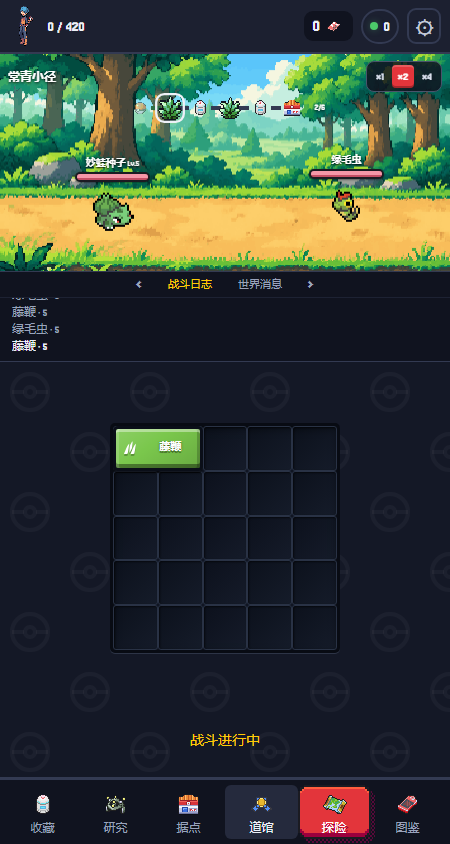
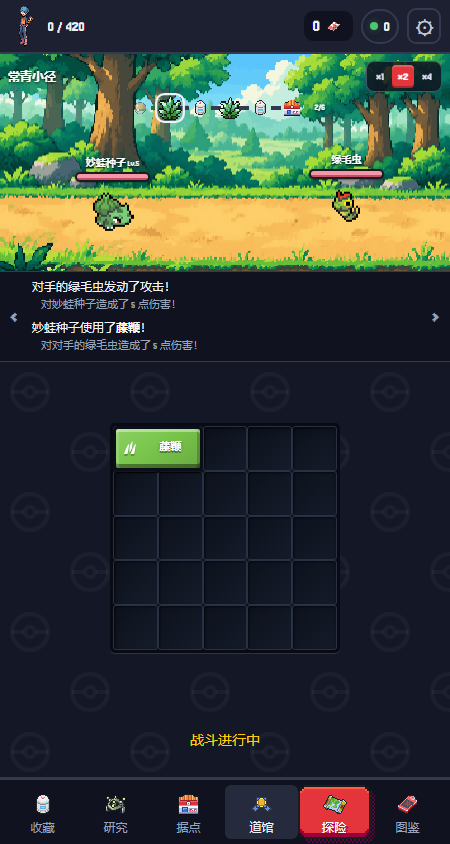
fix(poke): remove feed labels and format battle actions

Changed region(s): [[0.0, 0.3081, 0.4667, 0.4313], [0.5289, 0.3081, 0.6222, 0.3389]]

diff --git a/outputs/laozu-web/poke/app.js b/outputs/laozu-web/poke/app.js
@@ -26,7 +26,17 @@
   function header(){const owned=new Set(M.s.collection.map(m=>m.speciesId)).size;return `<header class="topbar compact-topbar"><button data-action="home" class="trainer" aria-label="返回据点"><img class="trainer-portrait" src="poke/trainers/still/acetrainer.png" alt=""></button><span class="collection-count" aria-label="已收藏物种 ${owned}，共 ${POKE_CATALOG.POKEDEX.length}">${owned} / ${POKE_CATALOG.POKEDEX.length}</span><div class="wallet" aria-label="抽取点 ${M.s.points}"><b>${M.s.points}</b>${icon('point')}</div><span class="defeat-count" aria-label="击败 ${M.s.defeats}"><i></i>${M.s.defeats}</span><button class="settings-button" data-action="settings" aria-label="设置">⚙</button></header>`;}
   function speedControl(){return `<div class="speed-control" aria-label="战斗倍率">${[1,2,4].map(n=>`<button data-action="speed:${n}" aria-pressed="${M.s.preferences.speed===n}" class="${M.s.preferences.speed===n?'chosen':''}">×${n}</button>`).join('')}</div>`;}
   function settings(){return settingsOpen?`<div class="settings-shade"><section class="settings-panel" role="dialog" aria-modal="true" aria-labelledby="settings-title"><div class="settings-title"><h2 id="settings-title">设置</h2><button data-action="close-settings" aria-label="关闭设置">×</button></div><div class="settings-row"><span>战斗倍率</span>${speedControl()}</div><button class="motion-toggle" data-action="motion" aria-pressed="${!!M.s.preferences.reducedMotion}">减少动态效果 <span>${M.s.preferences.reducedMotion?'开':'关'}</span></button></section></div>`:'';}
-  function messageFeed(r){const b=r.battle,lines=(b?.events||[]).slice(-8).map(e=>e.actor==='player'?`${M.moveName(e.move)} · ${e.amount}`:e.actor==='heal'?`恢复 +${e.amount}`:`${text(b.speciesId)} · ${e.amount}`);return `<section class="message-feed" aria-label="消息区"><div class="feed-tabs"><button data-action="feed-toggle" aria-label="上一消息频道">‹</button><button data-action="feed:battle" aria-pressed="${feed==='battle'}">战斗日志</button><button data-action="feed:world" aria-pressed="${feed==='world'}">世界消息</button><button data-action="feed-toggle" aria-label="下一消息频道">›</button></div><div class="feed-content" data-feed="${feed}">${feed==='world'?'<span class="feed-empty">暂无消息</span>':lines.length?lines.map(l=>`<p>${esc(l)}</p>`).join(''):'<span class="feed-empty">—</span>'}</div></section>`;}
+  function messageFeed(r){
+    const b=r.battle,own=esc(text(r.mon.speciesId)),foe=b?`对手的${esc(text(b.speciesId))}`:'';
+    const lines=(b?.events||[]).slice(-8).map(e=>{
+      if(e.actor==='heal')return `<div class="battle-history"><p>${own}吃掉了<strong>橙橙果</strong>！</p><small>恢复了 ${e.amount} 点生命！</small></div>`;
+      const action=e.actor==='player'?`${own}使用了<strong>${esc(M.moveName(e.move))}</strong>！`:`${foe}发动了攻击！`;
+      return `<div class="battle-history"><p>${action}</p><small>对${e.actor==='player'?foe:own}造成了 ${e.amount} 点伤害！</small></div>`;
+    });
+    if(b?.hp<=0)lines.push(`<div class="battle-history"><p>${foe}倒下了！</p></div>`);
+    else if(b&&r.hp<=0)lines.push(`<div class="battle-history"><p>${own}倒下了！</p></div>`);
+    return `<section class="message-feed" aria-label="${feed==='battle'?'战斗记录':'世界消息'}"><button class="feed-arrow previous" data-action="feed-toggle" aria-label="上一消息频道">‹</button><div class="feed-content" data-feed="${feed}" tabindex="0">${feed==='battle'?lines.join(''):''}</div><button class="feed-arrow next" data-action="feed-toggle" aria-label="下一消息频道">›</button></section>`;
+  }
   function nav(){return `<nav class="bottom-nav" aria-label="主要导航">${[['collection','收藏'],['research','研究'],['home','据点'],['gym','道馆'],['wander','探险'],['dex','图鉴']].map(([id,label])=>btn('nav:'+id,icon(id)+`<span>${label}</span>`,view===id?'active':'')).join('')}</nav>`;}
   const badge=type=>`<span class="type type-${type}">${TYPES[type]||type}</span>`;
   function home(){return `<main class="home-page"><div class="home-canvas scene"><canvas id="scene" aria-label="宝可梦训练家据点，沿道路连接研究所、收藏室和探险入口"></canvas></div><div class="home-heading"><small>PALLET OUTPOST</small><h1>新叶据点</h1><p>整理行囊，遇见下一位伙伴。</p></div><div class="building b-research">${btn('nav:research',icon('research')+'<b>研究所</b><small>抽取规则</small>')}</div><div class="building b-collection">${btn('nav:collection',icon('collection')+'<b>收藏室</b><small>'+M.s.collection.length+' 位伙伴</small>')}</div><div class="building b-gym">${btn('nav:gym',icon('gym')+'<b>训练馆</b><small>收藏整备</small>')}</div><div class="home-quest"><span class="quest-seal">${icon('wander')}</span><div><b>${M.s.run?'探险中 · '+text(M.s.run.mon.speciesId):M.s.firstFree?'第一份探险邀请':'常青小径 · 新的旅途'}</b><small>${M.s.run?'本次进度已保存，点击下方继续':'击败宝可梦获得抽取点，结识新的伙伴'}</small></div></div><div class="home-portal">${btn('nav:wander',`<span class="portal-art">${icon('wander')}</span><b>${M.s.run?'继续探险':'开始探险'}</b><small>${M.s.firstFree?'首次抽取免费':'每次抽取 '+M.drawCost()+' 点'}</small>`,'round-start')}</div><div class="home-caption">单宝可梦出战 · 招式与道具背包构筑</div></main>`;}
@@ -60,7 +70,7 @@
     else if(action.startsWith('speed:')){M.s.preferences.speed=Number(action.split(':')[1]);save();}
     else if(action==='motion'){M.s.preferences.reducedMotion=!M.s.preferences.reducedMotion;save();}
     else if(action==='feed-toggle'){feed=feed==='battle'?'world':'battle';}
-    else if(action.startsWith('feed:')){feed=action.split(':')[1];}
+
     else if(action==='home'){view='home';selected=null;}
     else if(action.startsWith('nav:')){view=action.slice(4);selected=null;}
     else if(action==='draw'){M.draw();save();scheduleReveal();}
@@ -79,7 +89,7 @@
   app.addEventListener('pointercancel',()=>{drag=null;document.querySelector('#drag-ghost')?.remove();});
   document.addEventListener('pointerdown',e=>{if(tip&&!e.target.closest('[data-item]')&&!e.target.closest('#item-tip')){tip=null;app.querySelector('#item-tip')?.remove();}});
   window.addEventListener('keydown',e=>{if(settingsOpen){if(e.key==='Escape'){act('close-settings');return;}if(e.key==='Tab'){const buttons=[...app.querySelectorAll('.settings-panel button')],i=buttons.indexOf(document.activeElement);e.preventDefault();buttons[(i+(e.shiftKey?-1:1)+buttons.length)%buttons.length].focus();}return;}if(e.key==='Escape'&&tip){tip=null;render();return;}if(e.key.toLowerCase()==='f'){if(document.fullscreenElement)document.exitFullscreen?.();else app.requestFullscreen?.().catch(()=>{});}if(e.key==='Escape'){drag=null;document.querySelector('#drag-ghost')?.remove();view='home';render();}});
-  let feedStart=null;app.addEventListener('pointerdown',e=>{if(e.target.closest('.message-feed'))feedStart={x:e.clientX,y:e.clientY};});app.addEventListener('pointerup',e=>{if(feedStart&&Math.abs(e.clientX-feedStart.x)>45&&Math.abs(e.clientY-feedStart.y)<35)act('feed-toggle');feedStart=null;});
+  let feedStart=null;app.addEventListener('pointercancel',()=>{feedStart=null;});app.addEventListener('pointerdown',e=>{if(e.target.closest('.message-feed')&&!e.target.closest('button')){feedStart={x:e.clientX,y:e.clientY};app.setPointerCapture(e.pointerId);}});app.addEventListener('pointermove',e=>{if(feedStart&&Math.abs(e.clientX-feedStart.x)>45&&Math.abs(e.clientY-feedStart.y)<35){feedStart=null;act('feed-toggle');}});app.addEventListener('pointerup',e=>{if(feedStart&&Math.abs(e.clientX-feedStart.x)>45&&Math.abs(e.clientY-feedStart.y)<35)act('feed-toggle');feedStart=null;});
   window.addEventListener('resize',()=>{fitBoard();drawScene();positionTip();});
   function getImage(url){let image=imageCache.get(url);if(!image){image=new Image();image.src=url;image.onload=drawScene;imageCache.set(url,image);}return image;}
   function drawScene(){const canvas=document.querySelector('#scene');if(!canvas)return;const rect=canvas.getBoundingClientRect(),dpr=Math.min(devicePixelRatio||1,2);canvas.width=rect.width*dpr;canvas.height=rect.height*dpr;const c=canvas.getContext('2d'),w=rect.width,h=rect.height;c.scale(dpr,dpr);c.imageSmoothingEnabled=false;

diff --git a/outputs/laozu-web/poke/battle-ui.css b/outputs/laozu-web/poke/battle-ui.css
@@ -156,13 +156,12 @@
 .speed-control button.chosen{background:var(--red);color:white;box-shadow:inset 0 2px #ffffff30,inset 0 -2px #0004}
 .route{top:40px;height:27px}
 .message-feed{flex:0 0 91px;min-height:0;background:var(--sunken);border-top:1px solid var(--line);border-bottom:1px solid var(--line);color:var(--text);touch-action:pan-y}
-.feed-tabs{height:26px;display:flex;justify-content:center;align-items:center;gap:10px;border-bottom:1px solid #333a5266}
-.feed-tabs button{border:0;background:none;color:var(--muted);padding:2px 8px;font-size:11px}
-.feed-tabs button[aria-pressed=true]{color:var(--yellow)}
-.feed-tabs button:first-child,.feed-tabs button:last-child{font-size:19px;line-height:20px}
-.feed-content{height:62px;overflow-y:auto;padding:5px 12px;font-size:12px;line-height:17px;scrollbar-width:thin}
-.feed-content p{margin:0}.feed-content p:last-child{color:var(--text)}.feed-content p:not(:last-child){color:var(--muted)}
-.feed-empty{display:block;text-align:center;color:var(--muted);padding:12px 0;font-size:11px}
+.message-feed{position:relative;display:flex;align-items:stretch}
+.feed-arrow{flex:0 0 28px;border:0;background:transparent;color:var(--muted);font-size:24px;padding:0;touch-action:manipulation}
+.feed-content{flex:1;min-width:0;height:100%;overflow-y:auto;padding:7px 4px;font-size:12px;line-height:18px;scrollbar-width:thin;overscroll-behavior:contain}
+.battle-history{margin:0 0 7px}.battle-history:last-child{margin-bottom:0}
+.battle-history p{margin:0;color:var(--text)}.battle-history strong{font-weight:700;color:#fff}
+.battle-history small{display:block;padding-left:9px;font-size:11px;color:var(--muted);line-height:16px}
 .settings-shade{position:absolute;inset:0;background:#0009;z-index:50;display:grid;place-items:center;padding:20px}
 .settings-panel{background:var(--panel);border:2px solid var(--line);border-radius:12px;padding:16px;width:100%;max-width:320px}
 .settings-title,.settings-row{display:flex;align-items:center;justify-content:space-between;margin-bottom:16px}.settings-title h2{margin:0;font-size:18px}
@@ -170,4 +169,4 @@
 .motion-toggle{display:flex;justify-content:space-between;width:100%;border:1px solid var(--line);background:var(--sunken);color:var(--text);padding:12px;border-radius:6px}
 .reduced-motion *{animation:none!important;transition:none!important}
 @media(max-width:360px){.compact-topbar{gap:5px;padding:4px 7px}.collection-count,.defeat-count{font-size:14px}.compact-topbar .wallet{padding:5px 6px}.compact-topbar .wallet b{font-size:17px}}
-@media(max-height:650px){.message-feed{flex-basis:69px}.feed-content{height:41px}.feed-empty{padding:3px 0}.battle-scene{min-height:190px}}
+@media(max-height:650px){.message-feed{flex-basis:69px}.feed-content{height:100%}.battle-scene{min-height:190px}}

diff --git a/outputs/laozu-web/index.html b/outputs/laozu-web/index.html
@@ -13,7 +13,7 @@
 <script defer src="poke/catalog.js"></script>
 <script defer src="poke/model.js"></script>
 <script defer src="poke/app.js"></script>
-<link rel="stylesheet" href="poke/battle-ui.css?v=9">
+<link rel="stylesheet" href="poke/battle-ui.css?v=10">
 </head>
 <body class="px" data-theme="dark">
 <div id="app" aria-label="宝可梦行囊探险"><main><h1>宝可梦 · 行囊探险</h1><p>正在载入伙伴资料……</p></main></div>

diff --git a/tools/rea-pipeline/poke-fusion/ACCEPTANCE.md b/tools/rea-pipeline/poke-fusion/ACCEPTANCE.md
@@ -67,3 +67,8 @@ node tools/rea-pipeline/test-poke-theme.cjs
 - [ ] 世界消息后端：目前空状态，不生成假消息，不宣称已联网。
 
 验证：test-poke-hud.cjs 18项；test-poke-side-drops.cjs 29项；test-poke-browser.cjs 12项通过，无运行错误。HUD测试使用加大生命的隔离存档核对真实时钟倍率，不修改游戏平衡。截图与结果见 hud/；本轮未修改首页背景或查看封面。
+
+## 消息区去标题修正（2026-10-23）
+- 删除可见频道标题、频道标签按钮、暂无消息和占位破折号；仅两侧箭头与横向滑动切换，辅助名称保留在 aria-label。
+- 参考 https://github.com/smogon/pokemon-showdown-client/blob/master/play.pokemonshowdown.com/src/battle-log.ts 的 battle-history / strong / small 层级：真实动作独立一行，招式加粗，伤害和恢复结果缩进为次级行，倒下单独记录。当前为实时冷却战斗，不虚构回合编号、敌方招式或未计算的效果。
+- 世界消息未联网时保持空白。验证22项，包含左右按钮、CDP触屏横向滑动、无标题文字及实际日志输出；桌面浏览器触屏模拟不等于真机验收。

diff --git a/tools/rea-pipeline/poke-fusion/BATTLE-UI.md b/tools/rea-pipeline/poke-fusion/BATTLE-UI.md
@@ -67,3 +67,8 @@
 - [ ] 世界消息后端：目前空状态，不生成假消息，不宣称已联网。
 
 验证：test-poke-hud.cjs 18项；test-poke-side-drops.cjs 29项；test-poke-browser.cjs 12项通过，无运行错误。HUD测试使用加大生命的隔离存档核对真实时钟倍率，不修改游戏平衡。截图与结果见 hud/；本轮未修改首页背景或查看封面。
+
+## 消息区去标题修正（2026-10-23）
+- 删除可见频道标题、频道标签按钮、暂无消息和占位破折号；仅两侧箭头与横向滑动切换，辅助名称保留在 aria-label。
+- 参考 https://github.com/smogon/pokemon-showdown-client/blob/master/play.pokemonshowdown.com/src/battle-log.ts 的 battle-history / strong / small 层级：真实动作独立一行，招式加粗，伤害和恢复结果缩进为次级行，倒下单独记录。当前为实时冷却战斗，不虚构回合编号、敌方招式或未计算的效果。
+- 世界消息未联网时保持空白。验证22项，包含左右按钮、CDP触屏横向滑动、无标题文字及实际日志输出；桌面浏览器触屏模拟不等于真机验收。
